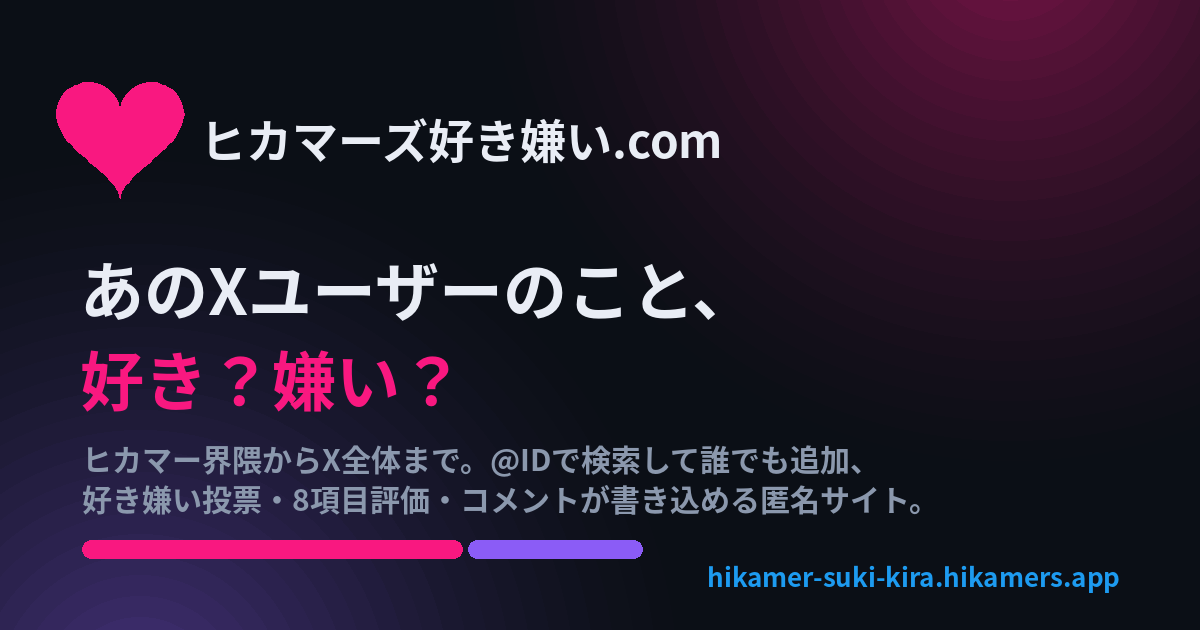
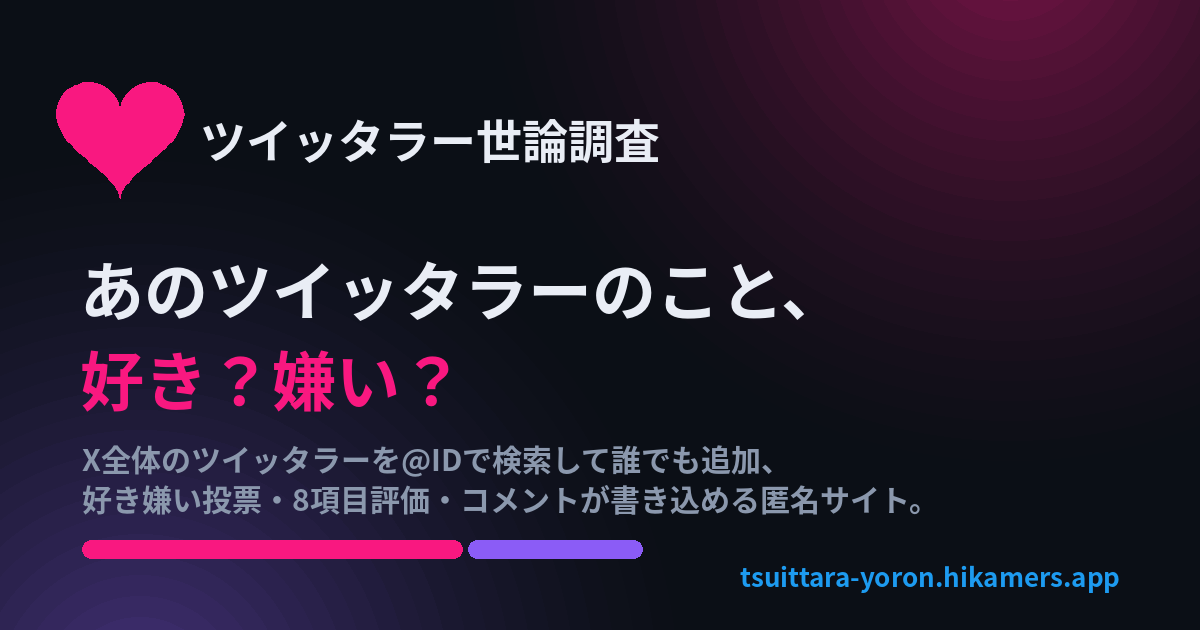
feat: ツイッタラー世論調査へ改名（サイト名・URL・コピー・OGP・2ch板名）

diff --git a/app/layout.tsx b/app/layout.tsx
@@ -14,17 +14,17 @@ const notoSansJP = Noto_Sans_JP({
 export const metadata: Metadata = {
   metadataBase: new URL(SITE_URL),
   title: {
-    default: `${SITE_NAME} - Xユーザーの好き嫌い・評価サイト`,
+    default: `${SITE_NAME} - ツイッタラーの好き嫌い・評価サイト`,
     template: `%s | ${SITE_NAME}`,
   },
   description: SITE_DESC,
-  keywords: ["好き嫌い", "評価", "X", "ヒカマー", "ランキング", "世論調査", "レビュー"],
+  keywords: ["好き嫌い", "評価", "X", "ツイッタラー", "ランキング", "世論調査", "レビュー"],
   formatDetection: { email: false, address: false, telephone: false },
   openGraph: {
     type: "website",
     locale: "ja_JP",
     url: "/",
-    title: `${SITE_NAME} - Xユーザーの好き嫌い・評価サイト`,
+    title: `${SITE_NAME} - ツイッタラーの好き嫌い・評価サイト`,
     description: SITE_DESC,
     siteName: SITE_NAME,
     images: ["/og.png"],

diff --git a/lib/site.ts b/lib/site.ts
@@ -1,7 +1,7 @@
 // サイト全体の定数（本番URLは必ずここから引く）
-export const SITE_URL = process.env.SITE_URL || "https://hikamer-suki-kira.hikamers.app";
-export const SITE_NAME = "ヒカマーズ好き嫌い.com";
+export const SITE_URL = process.env.SITE_URL || "https://tsuittara-yoron.hikamers.app";
+export const SITE_NAME = "ツイッタラー世論調査";
 export const SITE_TAGLINE = "Xのあの人のこと、好き？嫌い？";
 export const SITE_DESC =
-  "ヒカマー界隈からX全体まで。気になるあの人の好き嫌い・評価をみんなで書き込めるサイトです。";
-export const SITE_ORG = "ヒカマーズ好き嫌い.com 運営";
+  "ツイッタラー（Xユーザー）の好き嫌い・8項目評価をみんなで書き込める匿名サイトです。";
+export const SITE_ORG = "ツイッタラー世論調査 運営";

diff --git a/app/(main)/page.tsx b/app/(main)/page.tsx
@@ -33,7 +33,7 @@ export default async function HomePage() {
               </span>
             </h1>
             <p className="text-mut mt-4 max-w-xl leading-relaxed text-sm md:text-base">
-              ヒカマー界隈からX全体まで。気になるあの人の「好き嫌い」と「8項目評価」をみんなで書き込める匿名サイトです。@IDで検索すると未登録のXユーザーもその場で追加できます。
+              X全体のツイッタラーたちの「好き嫌い」と「8項目評価」をみんなで書き込める匿名サイトです。@IDで検索すると未登録のXユーザーもその場で追加できます。
             </p>
             <div className="mt-6">
               <HeroSearch />

diff --git a/components/ShareButtons.tsx b/components/ShareButtons.tsx
@@ -20,7 +20,7 @@ export default function ShareButtons({
   const dislikePct = 100 - likePct;
   const url = () => (typeof window !== "undefined" ? window.location.href : "");
 
-  const text = `【${voteType === "like" ? "好き派" : "嫌い派"}】${personName} のこと好き？嫌い？\n【好き派】${likePct}% vs【嫌い派】${dislikePct}%\n#ヒカマーズ好き嫌いcom`;
+  const text = `【${voteType === "like" ? "好き派" : "嫌い派"}】${personName} のこと好き？嫌い？\n【好き派】${likePct}% vs【嫌い派】${dislikePct}%\n#ツイッタラー世論調査`;
 
   const open = (u: string) => window.open(u, "_blank");
 

diff --git a/components/CommentSection.tsx b/components/CommentSection.tsx
@@ -242,7 +242,7 @@ function CommentForm({
         return;
       }
       if (tweet && !parentCommentId) {
-        const text = `【${voteType === "like" ? "好き派" : "嫌い派"}】としてコメントを投稿しました！\n\n「${content.trim()}」\n\n#ヒカマーズ好き嫌いcom`;
+        const text = `【${voteType === "like" ? "好き派" : "嫌い派"}】としてコメントを投稿しました！\n\n「${content.trim()}」\n\n#ツイッタラー世論調査`;
         window.open(
           `https://twitter.com/intent/tweet?text=${encodeURIComponent(text)}&url=${encodeURIComponent(window.location.href)}`,
           "_blank"

diff --git a/app/(main)/search/page.tsx b/app/(main)/search/page.tsx
@@ -53,7 +53,7 @@ export default async function SearchPage({ searchParams }: { searchParams: SP })
               type="text"
               name="q"
               defaultValue={q}
-              placeholder="@IDまたは名前（例: @maebahesioru2 / ヒカマー）"
+              placeholder="@IDまたは名前（例: @maebahesioru2 / ツイッタラー）"
               className="w-full pl-9 pr-3 py-2.5 rounded-xl border border-line text-sm focus:outline-none focus:ring-2 focus:ring-x/60"
             />
           </div>

diff --git a/app/2ch/polls/SETTING.TXT/route.ts b/app/2ch/polls/SETTING.TXT/route.ts
@@ -2,8 +2,8 @@ import { to2chResponse } from "@/lib/bbs2ch";
 
 export const dynamic = "force-dynamic";
 
-const SETTINGS = `BBS_TITLE=ヒカマーズ好き嫌い.com（投票トーク）
-BBS_TITLE_ORIG=ヒカマーズ好き嫌い.com（投票トーク）
+const SETTINGS = `BBS_TITLE=ツイッタラー世論調査（投票トーク）
+BBS_TITLE_ORIG=ツイッタラー世論調査（投票トーク）
 BBS_NONAME_NAME=名無しさん
 BBS_MAX_MENU_THREAD=1000
 BBS_THREAD_TATESUGI=50

diff --git a/app/(main)/polls/create/CreatePollForm.tsx b/app/(main)/polls/create/CreatePollForm.tsx
@@ -128,7 +128,7 @@ export default function CreatePollForm() {
           type="text"
           value={title}
           onChange={(e) => setTitle(e.target.value.slice(0, 200))}
-          placeholder="例: 一番好きなヒカマーは？"
+          placeholder="例: 一番好きなツイッタラーは？"
           className="w-full px-3 py-2.5 rounded-xl border border-line focus:outline-none focus:ring-2 focus:ring-x/60 text-sm"
         />
       </div>

diff --git a/app/2ch/people/SETTING.TXT/route.ts b/app/2ch/people/SETTING.TXT/route.ts
@@ -2,8 +2,8 @@ import { to2chResponse } from "@/lib/bbs2ch";
 
 export const dynamic = "force-dynamic";
 
-const SETTINGS = `BBS_TITLE=ヒカマーズ好き嫌い.com（人物）
-BBS_TITLE_ORIG=ヒカマーズ好き嫌い.com（人物）
+const SETTINGS = `BBS_TITLE=ツイッタラー世論調査（人物）
+BBS_TITLE_ORIG=ツイッタラー世論調査（人物）
 BBS_NONAME_NAME=名無しさん
 BBS_MAX_MENU_THREAD=1000
 BBS_THREAD_TATESUGI=50

diff --git a/scripts/gen-assets.py b/scripts/gen-assets.py
@@ -89,14 +89,14 @@ def make_og():
 
     # ロゴ（ハート）＋サイト名
     d.polygon(heart_points(120, 130, 128), fill=LIKE)
-    d.text((200, 104), "ヒカマーズ好き嫌い.com", font=f_logo, fill=TXT)
+    d.text((200, 104), "ツイッタラー世論調査", font=f_logo, fill=TXT)
 
     # タイトル
-    d.text((80, 240), "あのXユーザーのこと、", font=f_title, fill=TXT)
+    d.text((80, 240), "あのツイッタラーのこと、", font=f_title, fill=TXT)
     d.text((80, 330), "好き？嫌い？", font=f_title, fill=LIKE)
 
     # サブタイトル
-    d.text((82, 436), "ヒカマー界隈からX全体まで。@IDで検索して誰でも追加、", font=f_sub, fill=MUT)
+    d.text((82, 436), "X全体のツイッタラーを@IDで検索して誰でも追加、", font=f_sub, fill=MUT)
     d.text((82, 476), "好き嫌い投票・8項目評価・コメントが書き込める匿名サイト。", font=f_sub, fill=MUT)
 
     # 結果バー（装飾）
@@ -108,8 +108,8 @@ def make_og():
     )
 
     # URL
-    d.text((W - 80 - d.textlength("hikamer-suki-kira.hikamers.app", font=f_url), 556),
-           "hikamer-suki-kira.hikamers.app", font=f_url, fill=XBLUE)
+    d.text((W - 80 - d.textlength("tsuittara-yoron.hikamers.app", font=f_url), 556),
+           "tsuittara-yoron.hikamers.app", font=f_url, fill=XBLUE)
 
     img.convert("RGB").save(os.path.join(PUBLIC, "og.png"), "PNG")
     print("wrote public/og.png")
